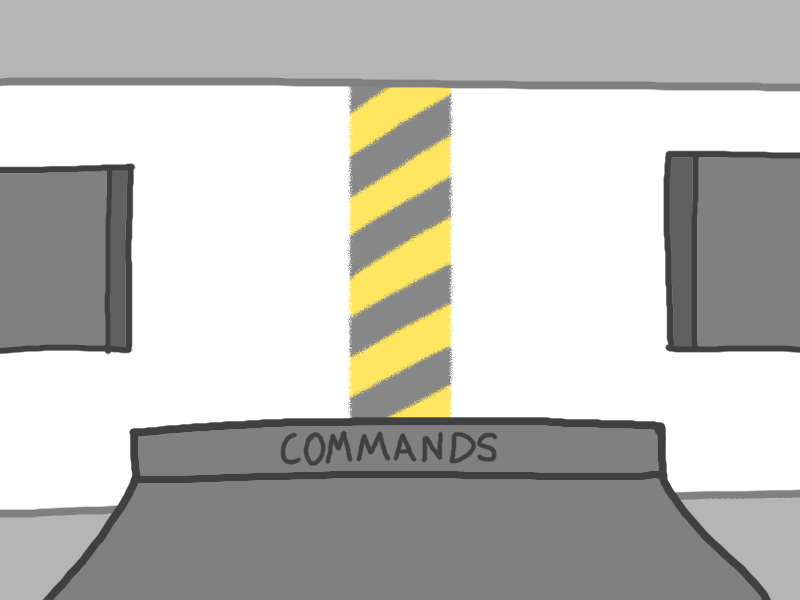
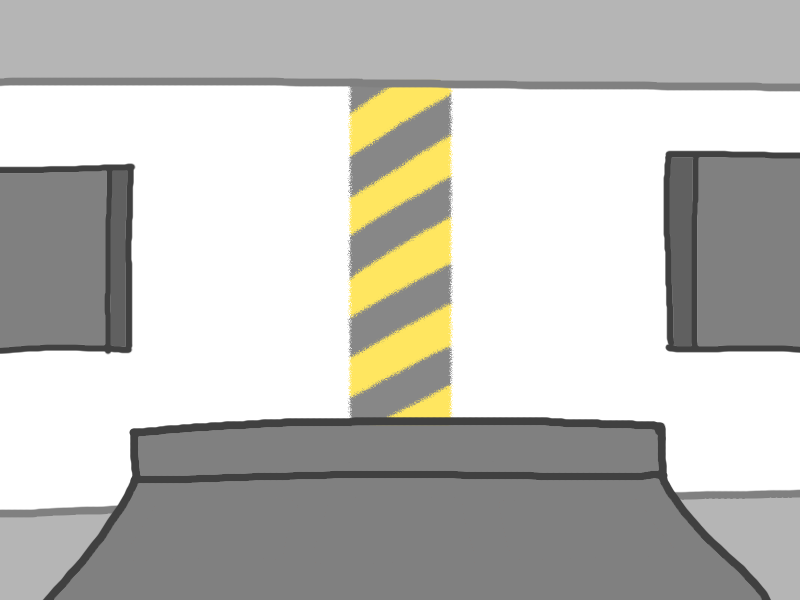
Begin internationalisation support

Changed region(s): [[0.3438, 0.72, 0.625, 0.78]]

diff --git a/csfieldguide/static/interactives/packet-attack/js/game.js b/csfieldguide/static/interactives/packet-attack/js/game.js
@@ -9,10 +9,20 @@ require('phaser');
 var CONFIG = require('./config.js');
 var PACKET = require('./packet.js');
 var INFO = require('./information.js');
+var BUTTON = require('./phaserButton.js');
 
 const KEY_SEND = "SEND";
 const KEY_ACK = "ACK";
 const KEY_NACK = "NACK";
+
+// Internationalisation text //
+
+var TXT_COMMANDS = gettext("COMMANDS");
+var TXT_DELAY = gettext("DELAY");
+var TXT_CORRUPT = gettext("CORRUPT");
+var TXT_KILL = gettext("KILL");
+
+// End //
 
 /**
  * Gameplay element.
@@ -597,8 +607,8 @@ class UIScene extends Phaser.Scene {
      */
     preload() {
         console.log('loading UI images');
-        this.load.image('pause', base + 'interactives/packet-attack/assets/leftGreenButton.png');
-        this.load.image('play', base + 'interactives/packet-attack/assets/rightGreenButton.png');
+        this.load.image('pause', base + 'interactives/packet-attack/assets/pauseButton.png');
+        this.load.image('play', base + 'interactives/packet-attack/assets/playButton.png');
         this.load.image('delay', base + 'interactives/packet-attack/assets/leftButton.png');
         this.load.image('corrupt', base + 'interactives/packet-attack/assets/middleButton.png');
         this.load.image('kill', base + 'interactives/packet-attack/assets/rightButton.png');
@@ -612,29 +622,74 @@ class UIScene extends Phaser.Scene {
         console.log('creating UI');
 
         var textConfig = {
-            font: '20px Open Sans',
+            font: '40px Open Sans',
             fill: '#000000',
-            align: 'center'
+            align: 'center',
         }
+        this.titleText = this.add.text(400, 0, 'Packet Attack', textConfig);
+        this.titleText.setOrigin(0.5, 0);
+
+        textConfig.font = '36px Open Sans';
+        this.commandsText = this.add.text(400, 450, TXT_COMMANDS, textConfig)
+        this.commandsText.setOrigin(0.5, 0.5);
+
+        textConfig.font = '20px Open Sans';
+        this.levelText = this.add.text(400, 50, '', textConfig);
+        this.levelText.setOrigin(0.5, 0);
+        this.sendText = this.add.text(20, 10, '', textConfig);
+        this.receivedText = this.add.text(780, 10, 'Received:', textConfig);
+        this.receivedText.setOrigin(1, 0);
 
         this.playpause = this.add.sprite(600, 450, 'pause');
         this.playpause.on('pointerdown', this.togglePause);
 
-        this.delay = this.add.image(215, 520, 'delay');
+        var buttonTextConfig = {
+            font: '24px Open Sans',
+            fill: '#db3300',
+            align: 'center',
+        };
+        var delayButtonConfig = {
+            scene: this,
+            x: 215,
+            y: 520,
+            imageKey: 'delay',
+            buttonSize: [170, 63],
+            text: TXT_DELAY,
+            textConfig: buttonTextConfig 
+        }
+        this.delay = new BUTTON.PhaserButton(delayButtonConfig);
         this.delay.on('pointerdown', this.alertDelay);
         this.delay.on('pointerout', this.unAlertDelay);
         this.delay.on('pointerup', this.unAlertDelay);
         this.delayRemainder = this.add.text(215, 580, 'Uses:', textConfig);
         this.delayRemainder.setOrigin(0.5, 0.5);
 
-		this.corrupt = this.add.image(400, 520, 'corrupt');
+        var corruptButtonConfig = {
+            scene: this,
+            x: 400,
+            y: 520,
+            imageKey: 'corrupt',
+            buttonSize: [167, 68],
+            text: TXT_CORRUPT,
+            textConfig: buttonTextConfig 
+        }
+		this.corrupt = new BUTTON.PhaserButton(corruptButtonConfig);
         this.corrupt.on('pointerdown', this.alertCorrupt);
         this.corrupt.on('pointerout', this.unAlertCorrupt);
         this.corrupt.on('pointerup', this.unAlertCorrupt);
         this.corruptRemainder = this.add.text(400, 580, 'Uses:', textConfig);
         this.corruptRemainder.setOrigin(0.5, 0.5);
 
-        this.kill = this.add.image(590, 520, 'kill');
+        var killButtonConfig = {
+            scene: this,
+            x: 590,
+            y: 520,
+            imageKey: 'kill',
+            buttonSize: [179, 60],
+            text: TXT_KILL,
+            textConfig: buttonTextConfig 
+        }
+        this.kill = new BUTTON.PhaserButton(killButtonConfig);
         this.kill.on('pointerdown', this.alertKill);
         this.kill.on('pointerout', this.unAlertKill);
         this.kill.on('pointerup', this.unAlertKill);
@@ -642,21 +697,6 @@ class UIScene extends Phaser.Scene {
         this.killRemainder.setOrigin(0.5, 0.5);
 
         this.pipes = this.add.image(400, 300, 'pipes'); // Image needed above the packets
-
-        var config = {
-            font: '40px Open Sans',
-            fill: '#000000',
-            align: 'center',
-        }
-        this.titleText = this.add.text(400, 0, "Packet Attack", config);
-        this.titleText.setOrigin(0.5, 0);
-
-        config.font = '20px Open Sans';
-        this.levelText = this.add.text(400, 50, '', config);
-        this.levelText.setOrigin(0.5, 0);
-        this.sendText = this.add.text(20, 10, '', config);
-        this.receivedText = this.add.text(780, 10, 'Received:', config);
-        this.receivedText.setOrigin(1, 0); // Position the text by its top right corner
     }
 
     /**

diff --git a/csfieldguide/static/interactives/packet-attack/js/information.js b/csfieldguide/static/interactives/packet-attack/js/information.js
@@ -7,6 +7,13 @@
 require('phaser');
 
 var CONFIG = require('./config.js');
+var BUTTON = require('./phaserButton.js');
+
+// Internationalisation text //
+
+var TXT_START = gettext("START");
+
+// End //
 
 var InfoPaneType = {
     FAIL: 0,
@@ -53,8 +60,23 @@ class Information extends Phaser.Scene {
     console.log('creating Info screen');
     this.gameScene = this.scene.get('GameScene');
 
+    var buttonConfig = {
+      scene: this,
+      x: 400,
+      y: 500,
+      imageKey: 'startButton',
+      buttonSize: [203, 122],
+      text: TXT_START,
+      textConfig: {
+          font: '40px Open Sans',
+          fill: '#007f0d',
+          align: 'center',
+        }
+      }
+
     this.add.image(400, 300, 'blurred-bg');
-    this.button = this.add.image(400, 500, 'startButton').setInteractive({ useHandCursor: true });
+    this.button = new BUTTON.PhaserButton(buttonConfig);
+    this.button.setInteractive({ useHandCursor: true });
     this.createText();
 
     this.button.on('pointerdown', this.startLevel);

diff --git a/csfieldguide/static/interactives/packet-attack/js/phaserButton.js b/csfieldguide/static/interactives/packet-attack/js/phaserButton.js
@@ -1,0 +1,39 @@
+/**
+ * Packet Attack
+ * 
+ * PhaserButton Class for Phaser 3 Buttons
+ */
+
+require('phaser');
+
+/**
+ * The main Buttons of Packet Attack - ones that require text
+ */
+class PhaserButton extends Phaser.GameObjects.Container {
+    
+    constructor(config) {
+
+        super(config.scene, config.x, config.y);
+
+        this.scene = config.scene;
+        this.imageKey = config.imageKey;
+        this.text = config.text;
+        this.textConfig = config.textConfig;
+        this.size = config.buttonSize;
+
+        this.image = this.scene.add.image(0, 0, this.imageKey);
+        
+        this.text = this.scene.add.text(0, 0, this.text, this.textConfig);
+        this.text.setOrigin(0.5, 0.5);
+        
+        this.setSize(this.size[0], this.size[1]);
+
+        this.add([this.image, this.text]);
+
+        this.scene.add.existing(this);
+    }
+}
+
+module.exports = {
+    PhaserButton
+}

diff --git a/csfieldguide/static/interactives/packet-attack/licence.md b/csfieldguide/static/interactives/packet-attack/licence.md
@@ -1,9 +1,10 @@
-*Note: License files are valid on date of this file's creation, please check
+*Note: Licence files are valid on date of this file's creation, please check
 websites for libraries for up to date licenses.*
 
 Assets
 ----------------------------------------------------------------------------
-Original assets for Packet Attack were drawn by Jack Morgan and are freely
+Original assets for Packet Attack were created by Jack Morgan and Alasdair
+Smith and are freely
 available under the MIT license.
 Email: jack.morgan@canterbury.ac.nz
 ----------------------------------------------------------------------------
